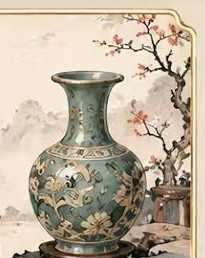
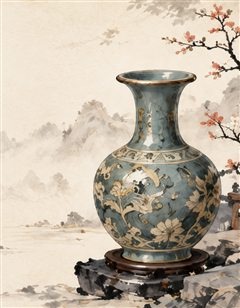
feat(home): 用高清插画原图重切四雅插画与卷轴山水；按设计稿校正卡片比例(高2.87rem、图文1.02:1、插画框比例0.78)

diff --git a/frontend/src/styles/home.less b/frontend/src/styles/home.less
@@ -369,7 +369,7 @@
   .gu-frame(0.18rem);
   display: flex;
   align-items: stretch;
-  height: 3.05rem;
+  height: 2.87rem;
   background: @color-card;
   border-radius: @radius-card;
   box-shadow: 0 0.08rem 0.22rem fade(#3a2f1d, 8%);
@@ -383,7 +383,7 @@
   }
 
   &__body {
-    flex: 1.05;
+    flex: 1.02;
     display: flex;
     flex-direction: column;
     padding: 0.26rem 0.1rem 0.24rem 0.26rem;
@@ -442,7 +442,7 @@
   }
 
   &__art {
-    flex: 0.95;
+    flex: 1;
     min-width: 0;
     overflow: hidden;
 
@@ -452,7 +452,7 @@
       max-width: 100%;
       height: 100%;
       object-fit: cover;
-      object-position: center top;
+      object-position: center center;
     }
   }
 }
